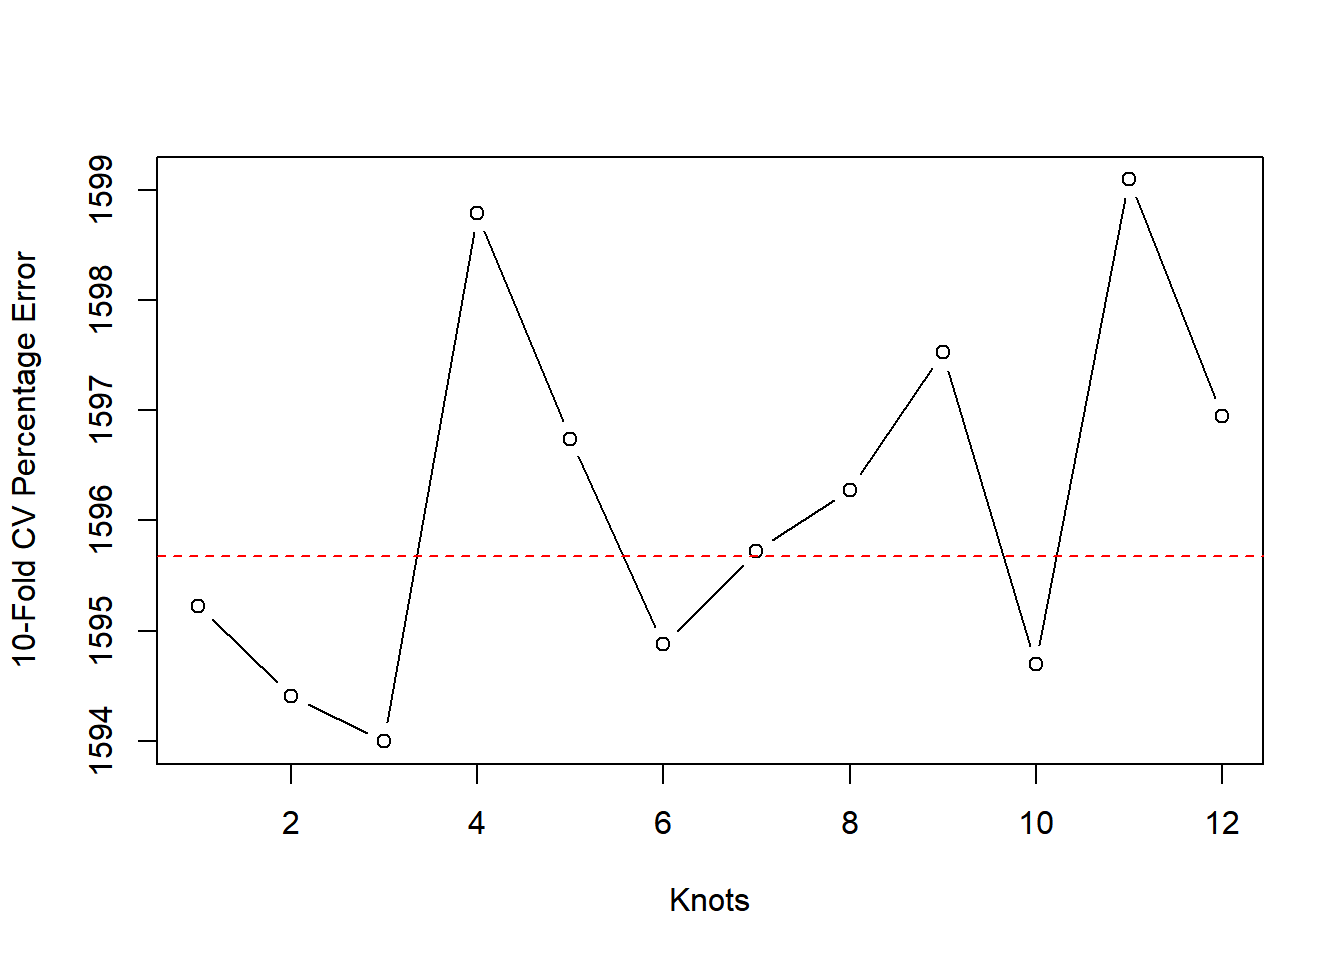
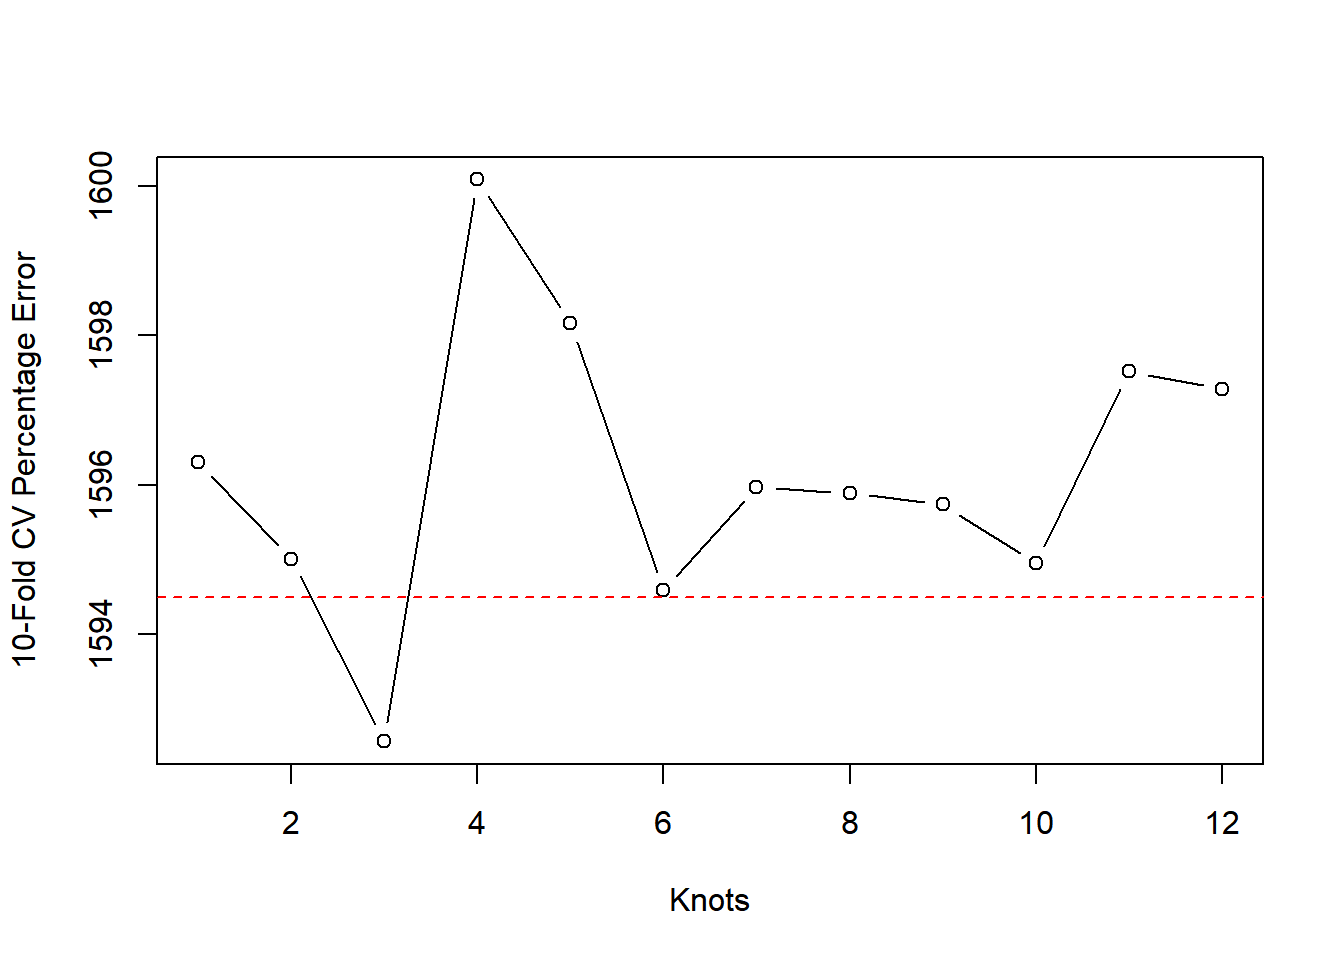
fix seed

diff --git a/ML_2_Summary.html b/ML_2_Summary.html
@@ -676,7 +676,7 @@ coef(reg.best,11)</code></pre>
 <p>Author: Sarah Brown</p>
 <div id="summarydescription-1" class="section level3">
 <h3>Summary/description:</h3>
-<p>With this method, you shrink the Beta coefficients of your features towards 0. It reduces variance but increases bias in the training data. It doesn’t let you make a coefficient 0 (it shrinks asymptotically) and so no features are fully eliminated. So, we use this when most features are useful and none seem irrelevant (if they did, you’d look at using lasso perhaps). As λ goes up, beta slope goes down and the line gets flatter which means the model is less sensative to the features. This means that the weight decay in gradient descent is larger.</p>
+<p>With this method, you shrink the Beta coefficients of your features towards 0. It reduces variance but increases bias in the training data. It doesn’t let you make a coefficient 0 (it shrinks asymptotically) and so no features are fully eliminated. So, we use this when most features are useful and none seem irrelevant (if they did, you’d look at using lasso perhaps). As λ goes up, beta slope goes down and the line gets flatter which means the model is less sensitive to the features. This means that the weight decay in gradient descent is larger.</p>
 </div>
 <div id="when-to-employ-this-methodmodel-1" class="section level3">
 <h3>When to employ this method/model:</h3>
@@ -1431,13 +1431,12 @@ stdev &lt;- sd(mse.error[2:12])
 abline(h= min(mse.error) + stdev, col = &quot;red&quot;, lty = &quot;dashed&quot;)</code></pre>
[1 lines of base64/hex data omitted]
 <p>2.) Now we can use the best degree found above, determine the correct number of knots, if any.</p>
-<pre class="r"><code># METHOD 1 - look for the best model using CV whilst changing knots
-error.vector &lt;- rep(0,12) # create an error vector to store cv results
+<pre class="r"><code>error.vector &lt;- rep(0,12) # create an error vector to store cv results
 
 set.seed(5082)
-for (i in 4:15 ){
-  regression.spline &lt;- glm(wage ~ bs(age, df = i, degree= 4))
-  error.vector[i-3] &lt;- cv.glm(Wage, regression.spline, K = 10)$delta[1] #The default is the average squared error function.(MSE)
+for (i in 3:14 ){
+  regression.spline &lt;- glm(wage ~ bs(age, df = i, degree= 3))
+  error.vector[i-2] &lt;- cv.glm(Wage, regression.spline, K = 10)$delta[1] #The default is the average squared error function.(MSE)
 }
 
 # Plot Results 
@@ -1446,7 +1445,7 @@ plot(error.vector, xlab = &#39;Knots&#39;,ylab = &#39;10-Fold CV Percentage Erro
 lines(error.vector, type = &#39;b&#39;,lty = 1)
 stdev &lt;- sd(error.vector[1:12])
 abline(h= min(error.vector) + stdev, col = &quot;red&quot;, lty = &quot;dashed&quot;)</code></pre>
[2 lines of base64/hex data omitted]
 </div>
 <div id="model-improvements-4" class="section level3">
 <h3>Model Improvements:</h3>
@@ -1639,8 +1638,8 @@ library(splines)
 library(gam)
 Wage = Wage
 ##I am predicting Wage with:
-### smoothing spline of age with 4 dF (s() is the smoothing spline function)
-### Smoothing spline of year with 4 dF
+### smoothing spline of age with 6 dF (s() is the smoothing spline function)
+### Smoothing spline of year with 6 dF
 ### Education is factor variable but we want to add it, no need to smooth. Step Function is applied.
 levels(Wage$education)</code></pre>
 <pre><code>## [1] &quot;1. &lt; HS Grad&quot;       &quot;2. HS Grad&quot;         &quot;3. Some College&quot;   
